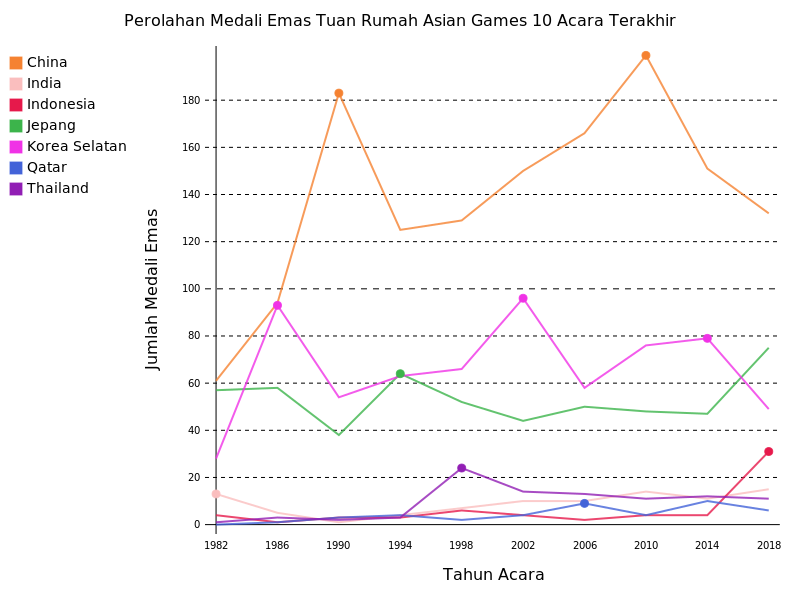
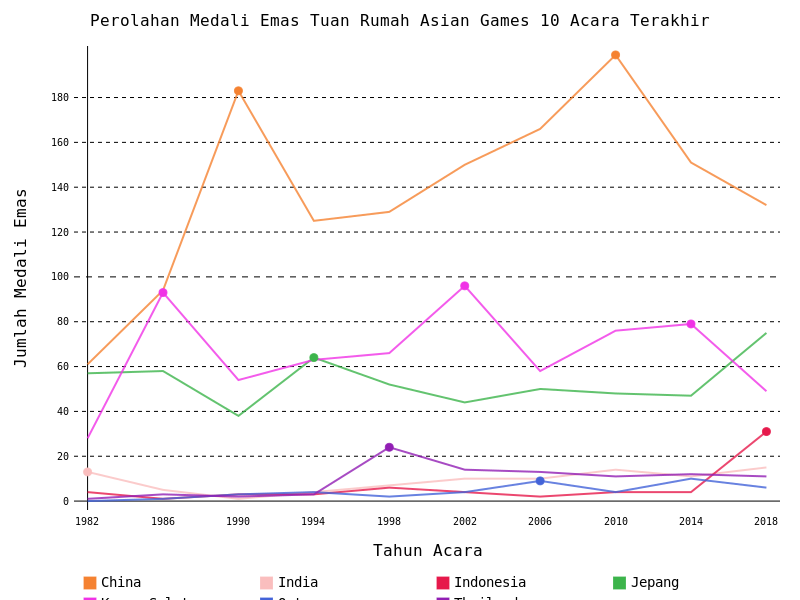
Removed margin in indonesia chart, added margin bottom in host chart

diff --git a/src/static/styles/styles.css b/src/static/styles/styles.css
@@ -26,7 +26,3 @@
 .col-10 {width: 83.33%;}
 .col-11 {width: 91.66%;}
 .col-12 {width: 100%;}
-
-#indonesia-progress-chart {
-	margin-top: 100px;
-}

diff --git a/src/visualization.py b/src/visualization.py
@@ -169,7 +169,7 @@ class HostProgressChart(BaseChart):
 
     def draw(self):
 
-        self.chart = pygal.Line(style=self.style, legend_at_bottom=True, legend_at_bottom_columns=4)
+        self.chart = pygal.Line(style=self.style, margin_bottom=50, legend_at_bottom=True, legend_at_bottom_columns=4)
         self.chart.title = self.title
         self.chart.x_title = "Tahun Acara"
         self.chart.y_title = "Jumlah Medali Emas"
